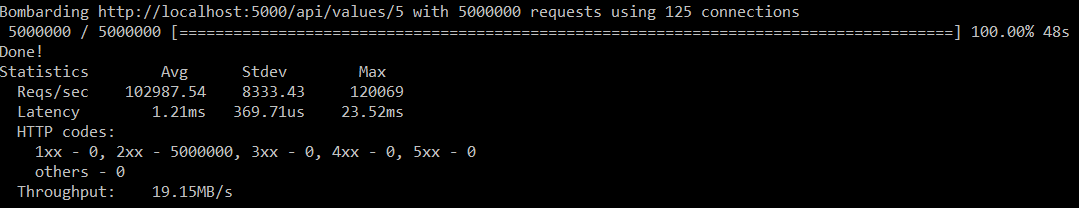
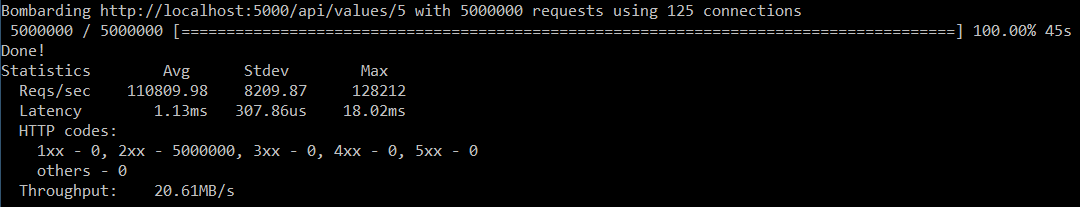
.NET Core vs Iris MVC vs Iris (classic API with Handlers)
No need to format using Writef on benchmarks for a simple string value without dynamic text, just use the WriteString which is the correct function for these apps.

Former-commit-id: 896ec514570d533d8da91af3ad199fc4f823fe74

diff --git a/context/gzip_response_writer.go b/context/gzip_response_writer.go
@@ -115,13 +115,22 @@ func (w *GzipResponseWriter) Write(contents []byte) (int, error) {
 //
 // Returns the number of bytes written and any write error encountered.
 func (w *GzipResponseWriter) Writef(format string, a ...interface{}) (n int, err error) {
-	return fmt.Fprintf(w, format, a...)
+	n, err = fmt.Fprintf(w, format, a...)
+	if err == nil {
+		w.ResponseWriter.Header().Set(contentTextHeaderValue, "text/plain")
+	}
+
+	return
 }
 
 // WriteString prepares the string data write to the gzip writer and finally to its
 // underline response writer, returns the uncompressed len(contents).
-func (w *GzipResponseWriter) WriteString(s string) (int, error) {
-	return w.Write([]byte(s))
+func (w *GzipResponseWriter) WriteString(s string) (n int, err error) {
+	n, err = w.Write([]byte(s))
+	if err == nil {
+		w.ResponseWriter.Header().Set(contentTextHeaderValue, "text/plain")
+	}
+	return
 }
 
 // WriteNow compresses and writes that data to the underline response writer,

diff --git a/context/context.go b/context/context.go
@@ -1452,7 +1452,6 @@ func (ctx *context) Write(rawBody []byte) (int, error) {
 //
 // Returns the number of bytes written and any write error encountered.
 func (ctx *context) Writef(format string, a ...interface{}) (n int, err error) {
-	ctx.ContentType(contentTextHeaderValue)
 	return ctx.writer.Writef(format, a...)
 }
 

diff --git a/_benchmarks/iris-mvc/controllers/values_controller.go b/_benchmarks/iris-mvc/controllers/values_controller.go
@@ -11,7 +11,7 @@ type ValuesController struct {
 // Get handles "GET" requests to "api/values/{id}".
 func (vc *ValuesController) Get() {
 	// id,_ := vc.Params.GetInt("id")
-	vc.Ctx.Writef("value")
+	vc.Ctx.WriteString("value")
 }
 
 // Put handles "PUT" requests to "api/values/{id}".

diff --git a/_benchmarks/iris/main.go b/_benchmarks/iris/main.go
@@ -18,7 +18,7 @@ func main() {
 // getHandler handles "GET" requests to "api/values/{id}".
 func getHandler(ctx context.Context) {
 	// id,_ := vc.Params.GetInt("id")
-	ctx.Writef("value")
+	ctx.WriteString("value")
 }
 
 // putHandler handles "PUT" requests to "api/values/{id}".

diff --git a/_benchmarks/README.md b/_benchmarks/README.md
@@ -5,7 +5,7 @@
 
 ## Software
 
-* OS: Microsoft **Windows** [Version **10**.0.15063]
+* OS: Microsoft **Windows** [Version **10**.0.15063], power plan is "High performance"
 * HTTP Benchmark Tool: https://github.com/codesenberg/bombardier, latest version **1.1**
 * **.NET Core**: https://www.microsoft.com/net/core, latest version **2.0**
 * **Iris**: https://github.com/kataras/iris, latest version **8.3** built with [go1.8.3](https://golang.org)
@@ -25,15 +25,15 @@ Application started. Press Ctrl+C to shut down.
 ```bash
 $ bombardier -c 125 -n 5000000 http://localhost:5000/api/values/5
 Bombarding http://localhost:5000/api/values/5 with 5000000 requests using 125 connections
- 5000000 / 5000000 [====================================================================================] 100.00% 2m39s
+ 5000000 / 5000000 [=====================================================================================] 100.00% 2m8s
 Done!
 Statistics        Avg      Stdev        Max
-  Reqs/sec     31532.63   10360.09     259792
-  Latency        3.99ms     2.32ms   297.21ms
+  Reqs/sec     39311.56   11744.49     264000
+  Latency        3.19ms     1.61ms   229.73ms
   HTTP codes:
     1xx - 0, 2xx - 5000000, 3xx - 0, 4xx - 0, 5xx - 0
     others - 0
-  Throughput:     6.89MB/s
+  Throughput:     8.61MB/s
 ```
 > 127210K Memory (private working set)
 
@@ -48,17 +48,17 @@ Application started. Press CTRL+C to shut down.
 ```bash
 $ bombardier -c 125 -n 5000000 http://localhost:5000/api/values/5
 Bombarding http://localhost:5000/api/values/5 with 5000000 requests using 125 connections
- 5000000 / 5000000 [======================================================================================] 100.00% 58s
+ 5000000 / 5000000 [======================================================================================] 100.00% 47s
 Done!
 Statistics        Avg      Stdev        Max
-  Reqs/sec     86087.86    3432.38      93833
-  Latency        1.45ms   464.12us    42.53ms
+  Reqs/sec    105643.81    7687.79     122564
+  Latency        1.18ms   366.55us    22.01ms
   HTTP codes:
     1xx - 0, 2xx - 5000000, 3xx - 0, 4xx - 0, 5xx - 0
     others - 0
-  Throughput:    16.01MB/s
+  Throughput:    19.65MB/s
 ```
-> 11816K Memory (private working set)
+> 126024K Memory (private working set)
 
 ### Iris
 ```bash
@@ -71,17 +71,17 @@ Application started. Press CTRL+C to shut down.
 ```bash
 $ bombardier -c 125 -n 5000000 http://localhost:5000/api/values/5
 Bombarding http://localhost:5000/api/values/5 with 5000000 requests using 125 connections
- 5000000 / 5000000 [======================================================================================] 100.00% 48s
+ 5000000 / 5000000 [======================================================================================] 100.00% 45s
 Done!
 Statistics        Avg      Stdev        Max
-  Reqs/sec    102987.54    8333.43     120069
-  Latency        1.21ms   369.71us    23.52ms
+  Reqs/sec    110809.98    8209.87     128212
+  Latency        1.13ms   307.86us    18.02ms
   HTTP codes:
     1xx - 0, 2xx - 5000000, 3xx - 0, 4xx - 0, 5xx - 0
     others - 0
-  Throughput:    19.15MB/s
+  Throughput:    20.61MB/s
 ```
-> 11040K Memory (private working set)
+> 11052K Memory (private working set)
 
 Click [here](screens) to navigate to the screenshots.
 
@@ -94,8 +94,8 @@ Click [here](screens) to navigate to the screenshots.
 * Memory usage - smaller is better.
 * LOC (Lines Of Code) - smaller is better.
 
-.NET Core MVC Application, written using 86 lines of code, ran for **2 minutes and 39 seconds** serving **31532.63** requests per second and **3.99ms** latency in average and **297.21ms** max, the memory usage of all these was 127MB (without the dotnet host).
+.NET Core MVC Application, written using 86 lines of code, ran for **2 minutes and 8 seconds** serving **39311.56** requests per second within **3.19ms** latency in average and **229.73ms** max, the memory usage of all these was 126MB (without the dotnet host).
 
-Iris MVC Application, written using 27 lines of code, ran for **58 seconds** serving **86087.86** requests per second and **1.45ms** latency in average and **42.53ms** max, the memory usage of all these was 12MB.
+Iris MVC Application, written using 27 lines of code, ran for **47 seconds** serving **105643.71** requests per second within **1.18ms** latency in average and **22.01ms** max, the memory usage of all these was 12MB.
 
-Iris Application, written using 22 lines of code, ran for **48 seconds** serving **102987.54** requests per second and **1.21ms** latency in average and **23.52ms** max, the memory usage of all these was 11MB.
+Iris Application, written using 22 lines of code, ran for **45 seconds** serving **110809.98** requests per second within **1.13ms** latency in average and **18.02ms** max, the memory usage of all these was 11MB.
